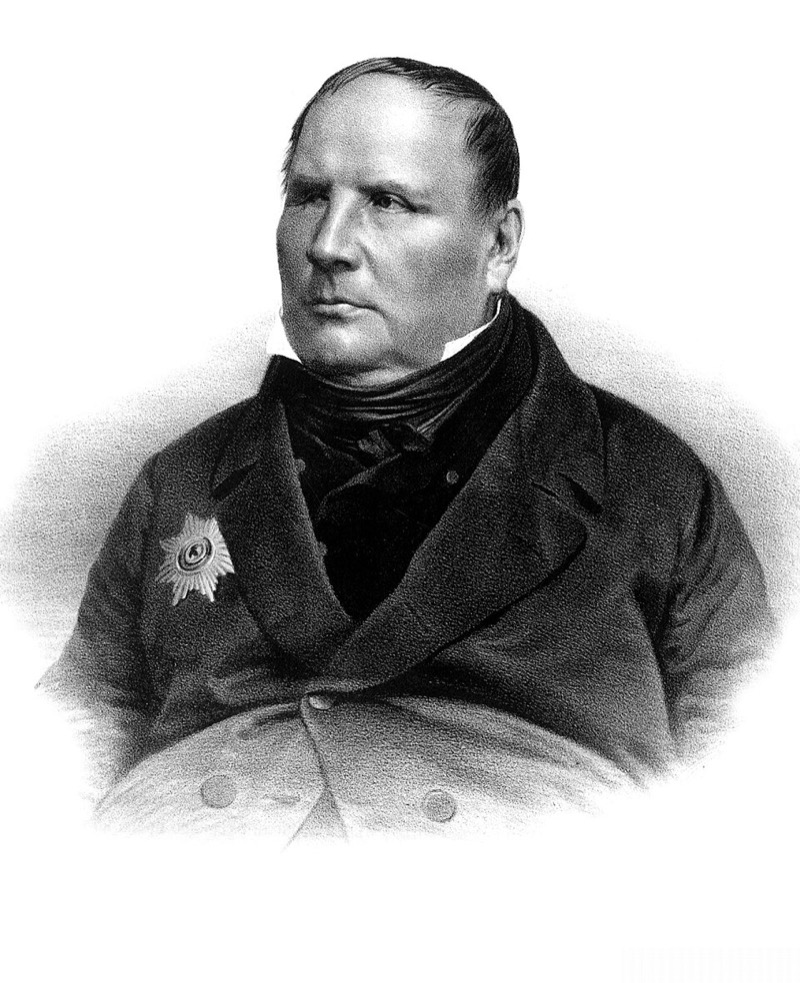
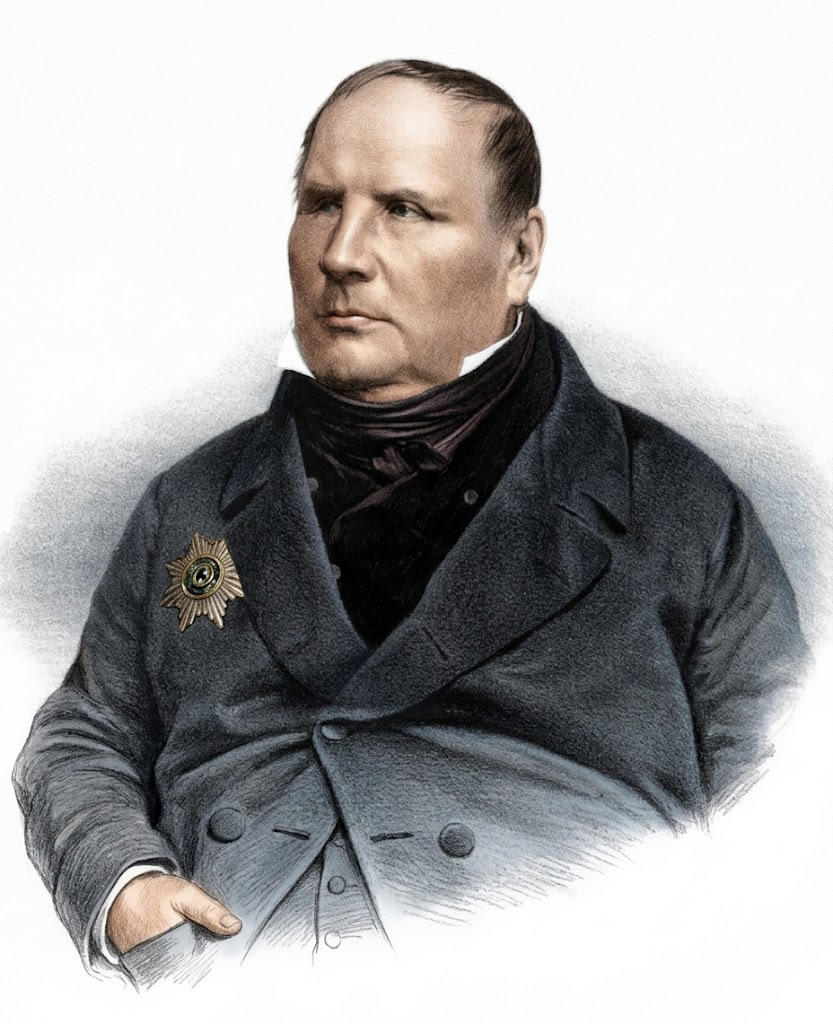
approve mykhailo-ostrohradskyi; colorized portrait

diff --git a/src/content/people/uk/mykhailo-ostrohradskyi.md b/src/content/people/uk/mykhailo-ostrohradskyi.md
@@ -3,7 +3,7 @@ name: Михайло Остроградський
 gender: male
 born: 1801-09-24
 died: 1862-01-01
-last_reviewed: 2026-11-01
+last_reviewed: 2026-11-02
 era: 19th-century
 group: science
 tags: [scientist]
@@ -32,6 +32,7 @@ image:
   position: "50% 20%"
   author: "Петро Борель (літографія за фото Андрія Деньєра)"
   license: "Public domain"
+  ai_edit: colorized
   source_url: "https://commons.wikimedia.org/wiki/File:PGRS_2_069_Ostrogradski_-_crop.jpg"
 sources:
   - title: "Енциклопедія історії України - Остроградський Михайло Васильович (автор - Л. О. Гаврилюк)"
@@ -54,7 +55,8 @@ sources:
     url: "https://arxiv.org/html/2608.24941"
 related: [ivan-kotliarevskyi, taras-shevchenko]
 collections: [science-founders]
-status: draft
+status: approved
+published: 2026-11-02T22:00:38Z
 ---
 
 ## Хлопець, який міряв криниці
